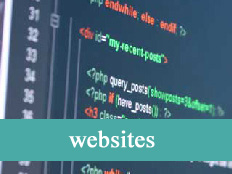
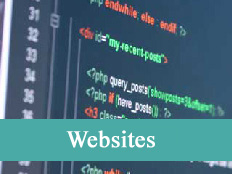
Fixed uppercase titles in portfolio/images, fixed gutters in images display

Changed region(s): [[0.2716, 0.7471, 0.694, 0.8621]]

diff --git a/style.css b/style.css
@@ -1,28 +1,3 @@
-/*
-           ____,'`-, 
-      _,--'   ,/::.; 
-   ,-'       ,/::,' `---.___        ___,_ 
-   |       ,:';:/        ;'"`;"`--./ ,-^.;--. 
-   |:     ,:';,'         '         `.   ;`   `-. 
-    \:.,:::/;/ -:.                   `  | `     `-. 
-     \:::,'//__.;  ,;  ,  ,  :.`-.   :. |  ;       :. 
-      \,',';/O)^. :'  ;  :   '__` `  :::`.       .:' ) 
-      |,'  |\__,: ;      ;  '/O)`.   :::`;       ' ,' 
-           |`--''            \__,' , ::::(       ,' 
-           `    ,            `--' ,: :::,'\   ,-' 
-            | ,;         ,    ,::'  ,:::   |,' 
-            |,:        .(          ,:::|   ` 
-            ::'_   _   ::         ,::/:| 
-           ,',' `-' \   `.      ,:::/,:| 
-          | : _  _   |   '     ,::,' ::: 
-          | \ O`'O  ,',   ,    :,'   ;:: 
-           \ `-'`--',:' ,' , ,,'      :: 
-            ``:.:.__   ',-','        ::' 
-    -J*H-      `--.__, ,::.         ::' 
-                   |:  ::::.       ::' 
-                   |:  ::::::    ,::' 
-*/
-
 /* ----- Portfolio by Julian Hasse, 2017 ----- */
 * {
   box-sizing:border-box; 
@@ -266,7 +241,7 @@ textarea {
 .img1 {
   float:left;
   padding-left: 0px;
-  margin-right: 10px;
+  margin-right: 17px;
 }
 
 .img2 {
@@ -274,7 +249,7 @@ margin-right: 3px;
 }
 
 .mainPortfolio {
-  margin-top: 21px;
+  margin-top: 17px;
   padding:5px;
 }
 
